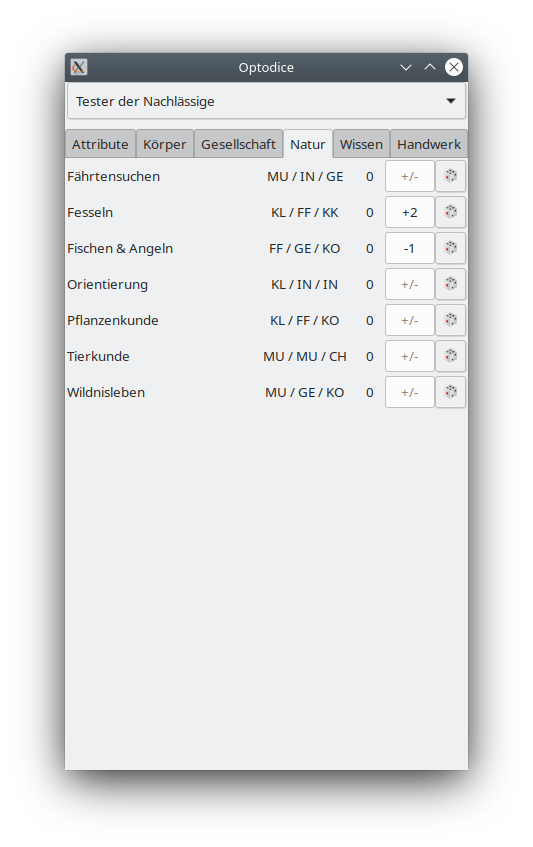
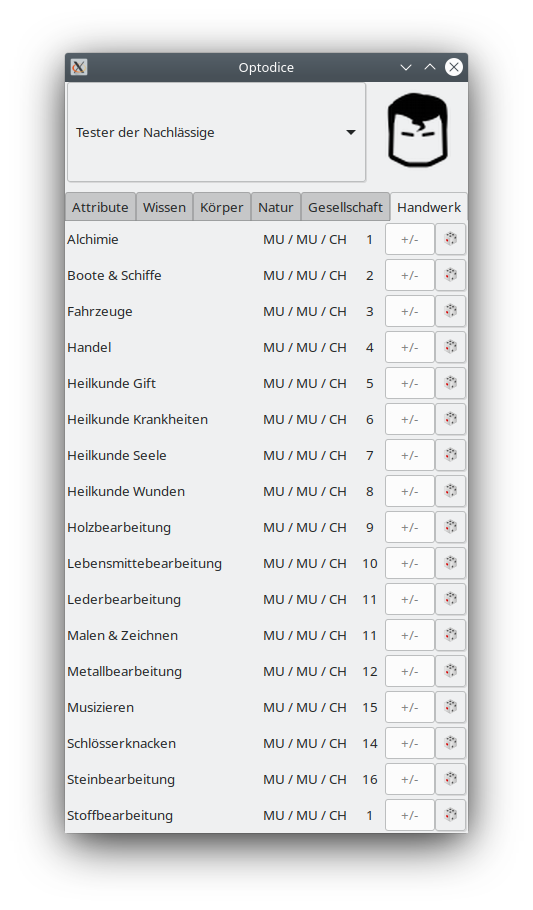
udpate readme

diff --git a/README.md b/README.md
@@ -15,14 +15,14 @@ Optodice does not modify your heroes, it operates in read only mode on your hero
 - [x] Role checks on skills
 - [ ] Role checks on attacks
 - [x] Display every check result in discord with the avatar of the hero
-- [ ] Support automatic uploads of avatars
+- [x] Support automatic uploads of avatars (upload via php script workds, ftp upload is missing)
 - [ ] Role custom dice/checks
-- [ ] Display avatar in Optodice
+- [x] Display avatar in Optodice
 - [ ] keep track of pain level
 - [ ] keep track of money
 - [x] Support Windows
 - [x] Support Linux
-- [ ] Support MacOS
+- [ ] Support MacOS (github action builds are compiling, still not testet)
 
 ## Screenshots
 Optodice UI  
